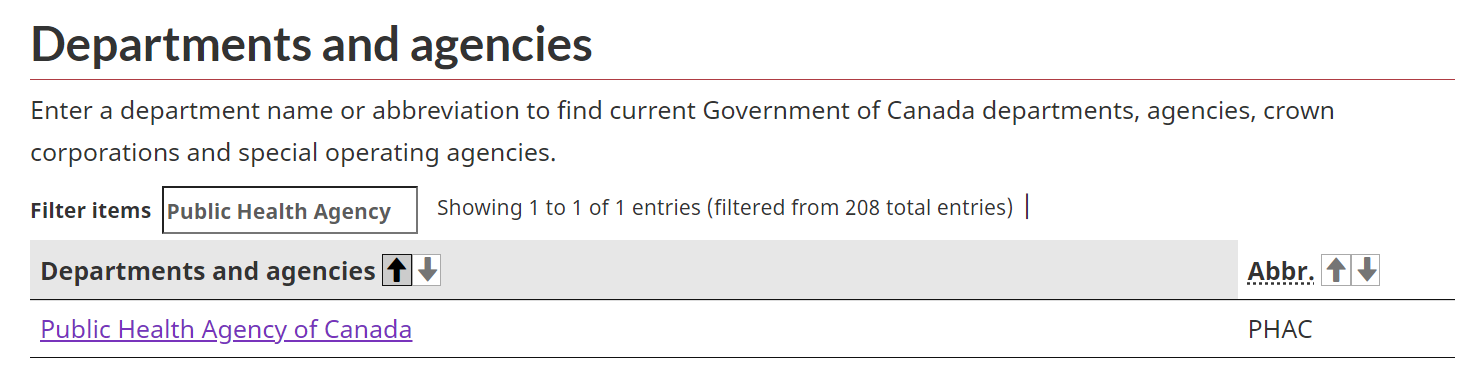
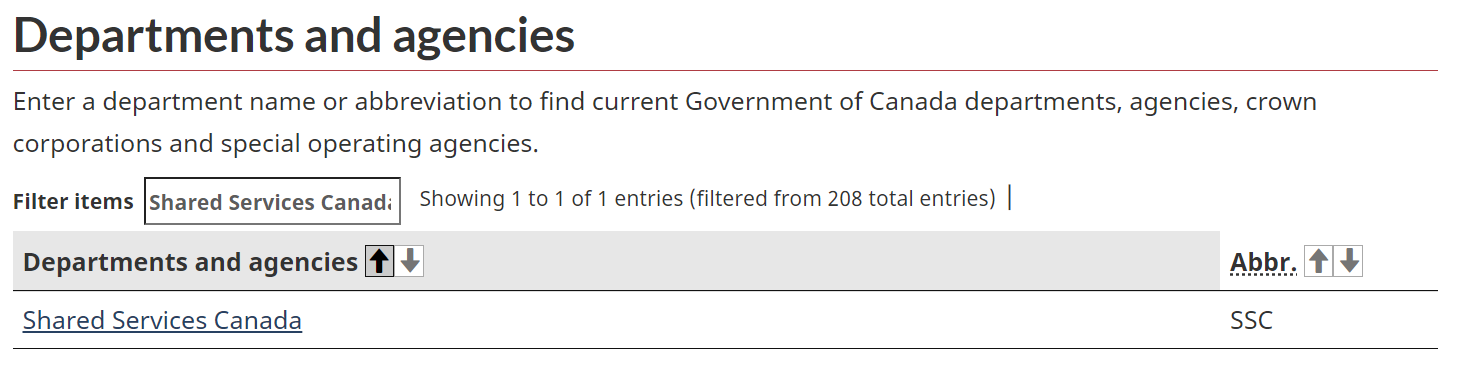
tenant folder bilingual nomenclature

diff --git a/Onboarding/Tenant.md b/Onboarding/Tenant.md
@@ -5,7 +5,7 @@
 1. Tenant's Name
 1. When creating the name of a tenant folder, it must adhere to a bilingual nomenclature and leverage the official abbreviation list of current Government of Canada departments, agencies, Crown Corporations and special operating agencies: [https://www.canada.ca/en/government/dept.html](https://www.canada.ca/en/government/dept.html).
 
-   For example, when creating a tenant folder to represent the Public Health Agency of Canada, employ both the official English and French abbreviation separated by a dash (e.g. PHAC-ASPC).
+   For example, when creating a tenant folder to represent Shared Services Canada, employ both the official English and French abbreviation separated by a dash (e.g. SSC-SPC).
 
    ![folder](img/departments-and-agencies-en.png)
 
@@ -13,11 +13,11 @@
     
    In order to uphold folder name requirements in the Google Cloud Console ([Creating and managing folders](https://cloud.google.com/resource-manager/docs/creating-managing-folders#:~:text=For%20example%2C%20to%20create%20folders,%2C%20spaces%2C%20hyphens%20and%20underscores)), avoid using accented characters in French.
 
-    ![folder](img/folder-structure-phac-aspc.png)
+    ![folder](img/folder-structure-ssc-spc.png)
 
 1. User or Group that should be granted Folder Viewer role on the tenant's folder structure
 
-    ![folder](img/folder-structure-phac-aspc.png)
+    ![folder](img/folder-structure-ssc-spc.png)
 
 
 ### TODO: Future enhancement
